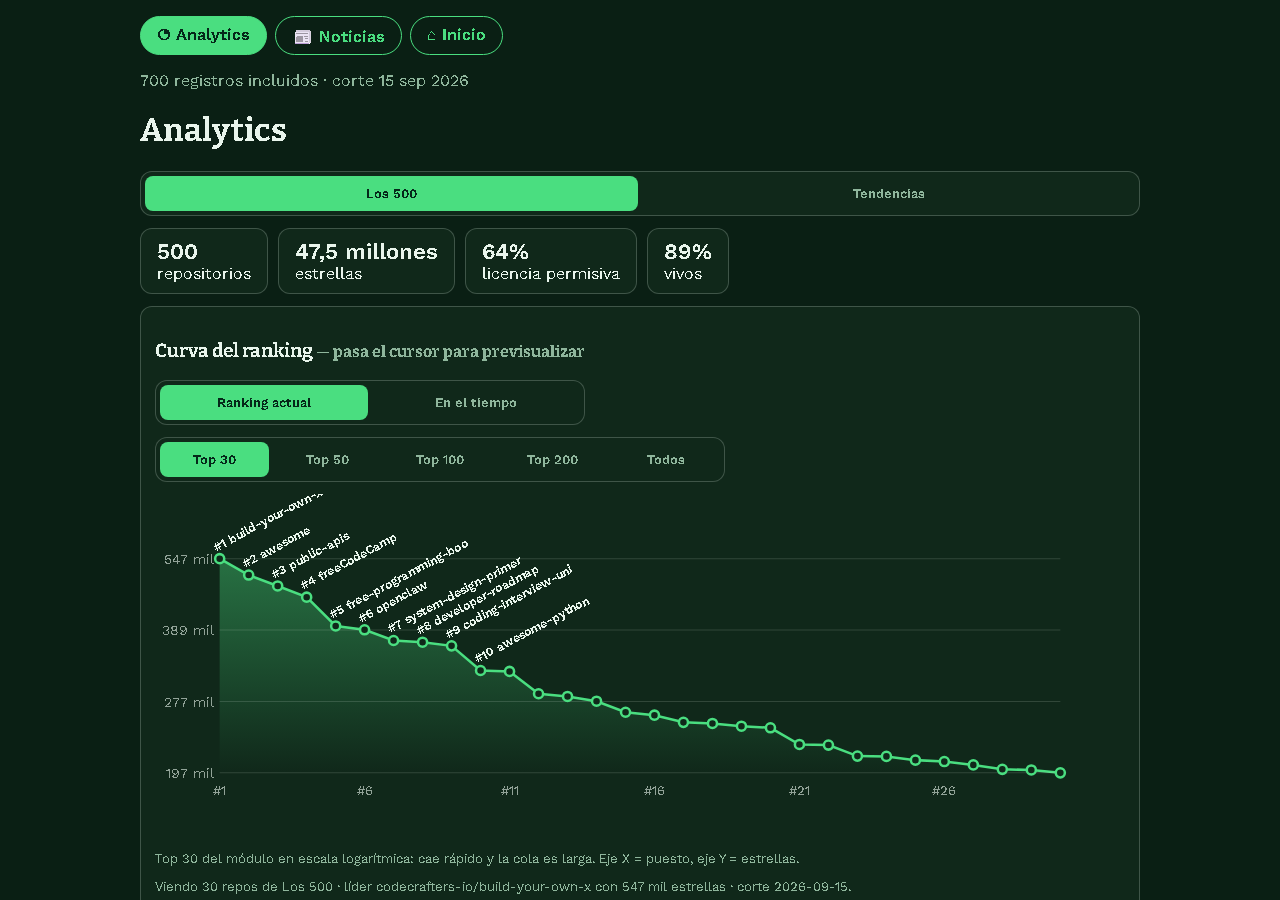
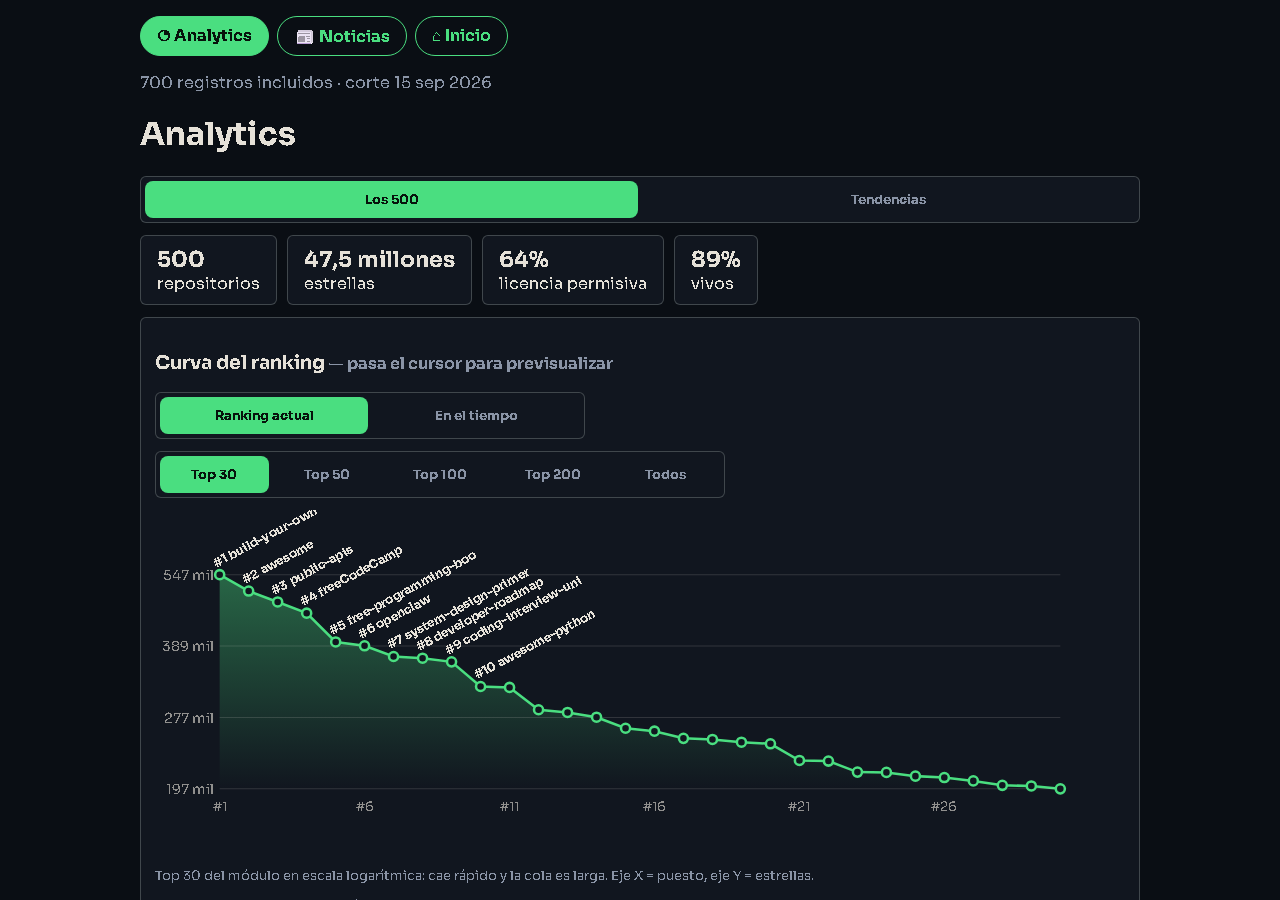
feat: Brasa (30-ember) como portada y sitio listo para GitHub Pages
- docs/index.html redirige a 30-ember.html?mod=tre (respeta ?mod=500) - ver.bat abre Brasa en Tendencias - docs/.nojekyll para servir estatico en Pages - sitemap.xml y robots.txt con URL https://marusan94.github.io/pulso-github

diff --git a/docs/index.html b/docs/index.html
@@ -1,8 +1,8 @@
 <!DOCTYPE html><html lang="es"><head><meta charset="UTF-8"><meta name="viewport" content="width=device-width,initial-scale=1">
 <title>Pulso GitHub — Ranking en español</title>
 <meta name="description" content="Ranking GitHub en español: los 500 repos con más estrellas y 200 tendencias.">
-<meta http-equiv="refresh" content="0; url=02-midnight-console.html">
-<link rel="canonical" href="02-midnight-console.html">
+<meta http-equiv="refresh" content="0; url=30-ember.html?mod=tre">
+<link rel="canonical" href="30-ember.html">
 </head>
-<body><p>Abriendo Pulso GitHub… <a href="02-midnight-console.html">entrar</a></p>
-<script>location.replace('02-midnight-console.html' + location.search);</script></body></html>
+<body><p>Abriendo Pulso GitHub… <a href="30-ember.html?mod=tre">entrar</a></p>
+<script>const q = new URLSearchParams(location.search); if (!q.has('mod')) q.set('mod','tre'); location.replace('30-ember.html?' + q.toString());</script></body></html>
